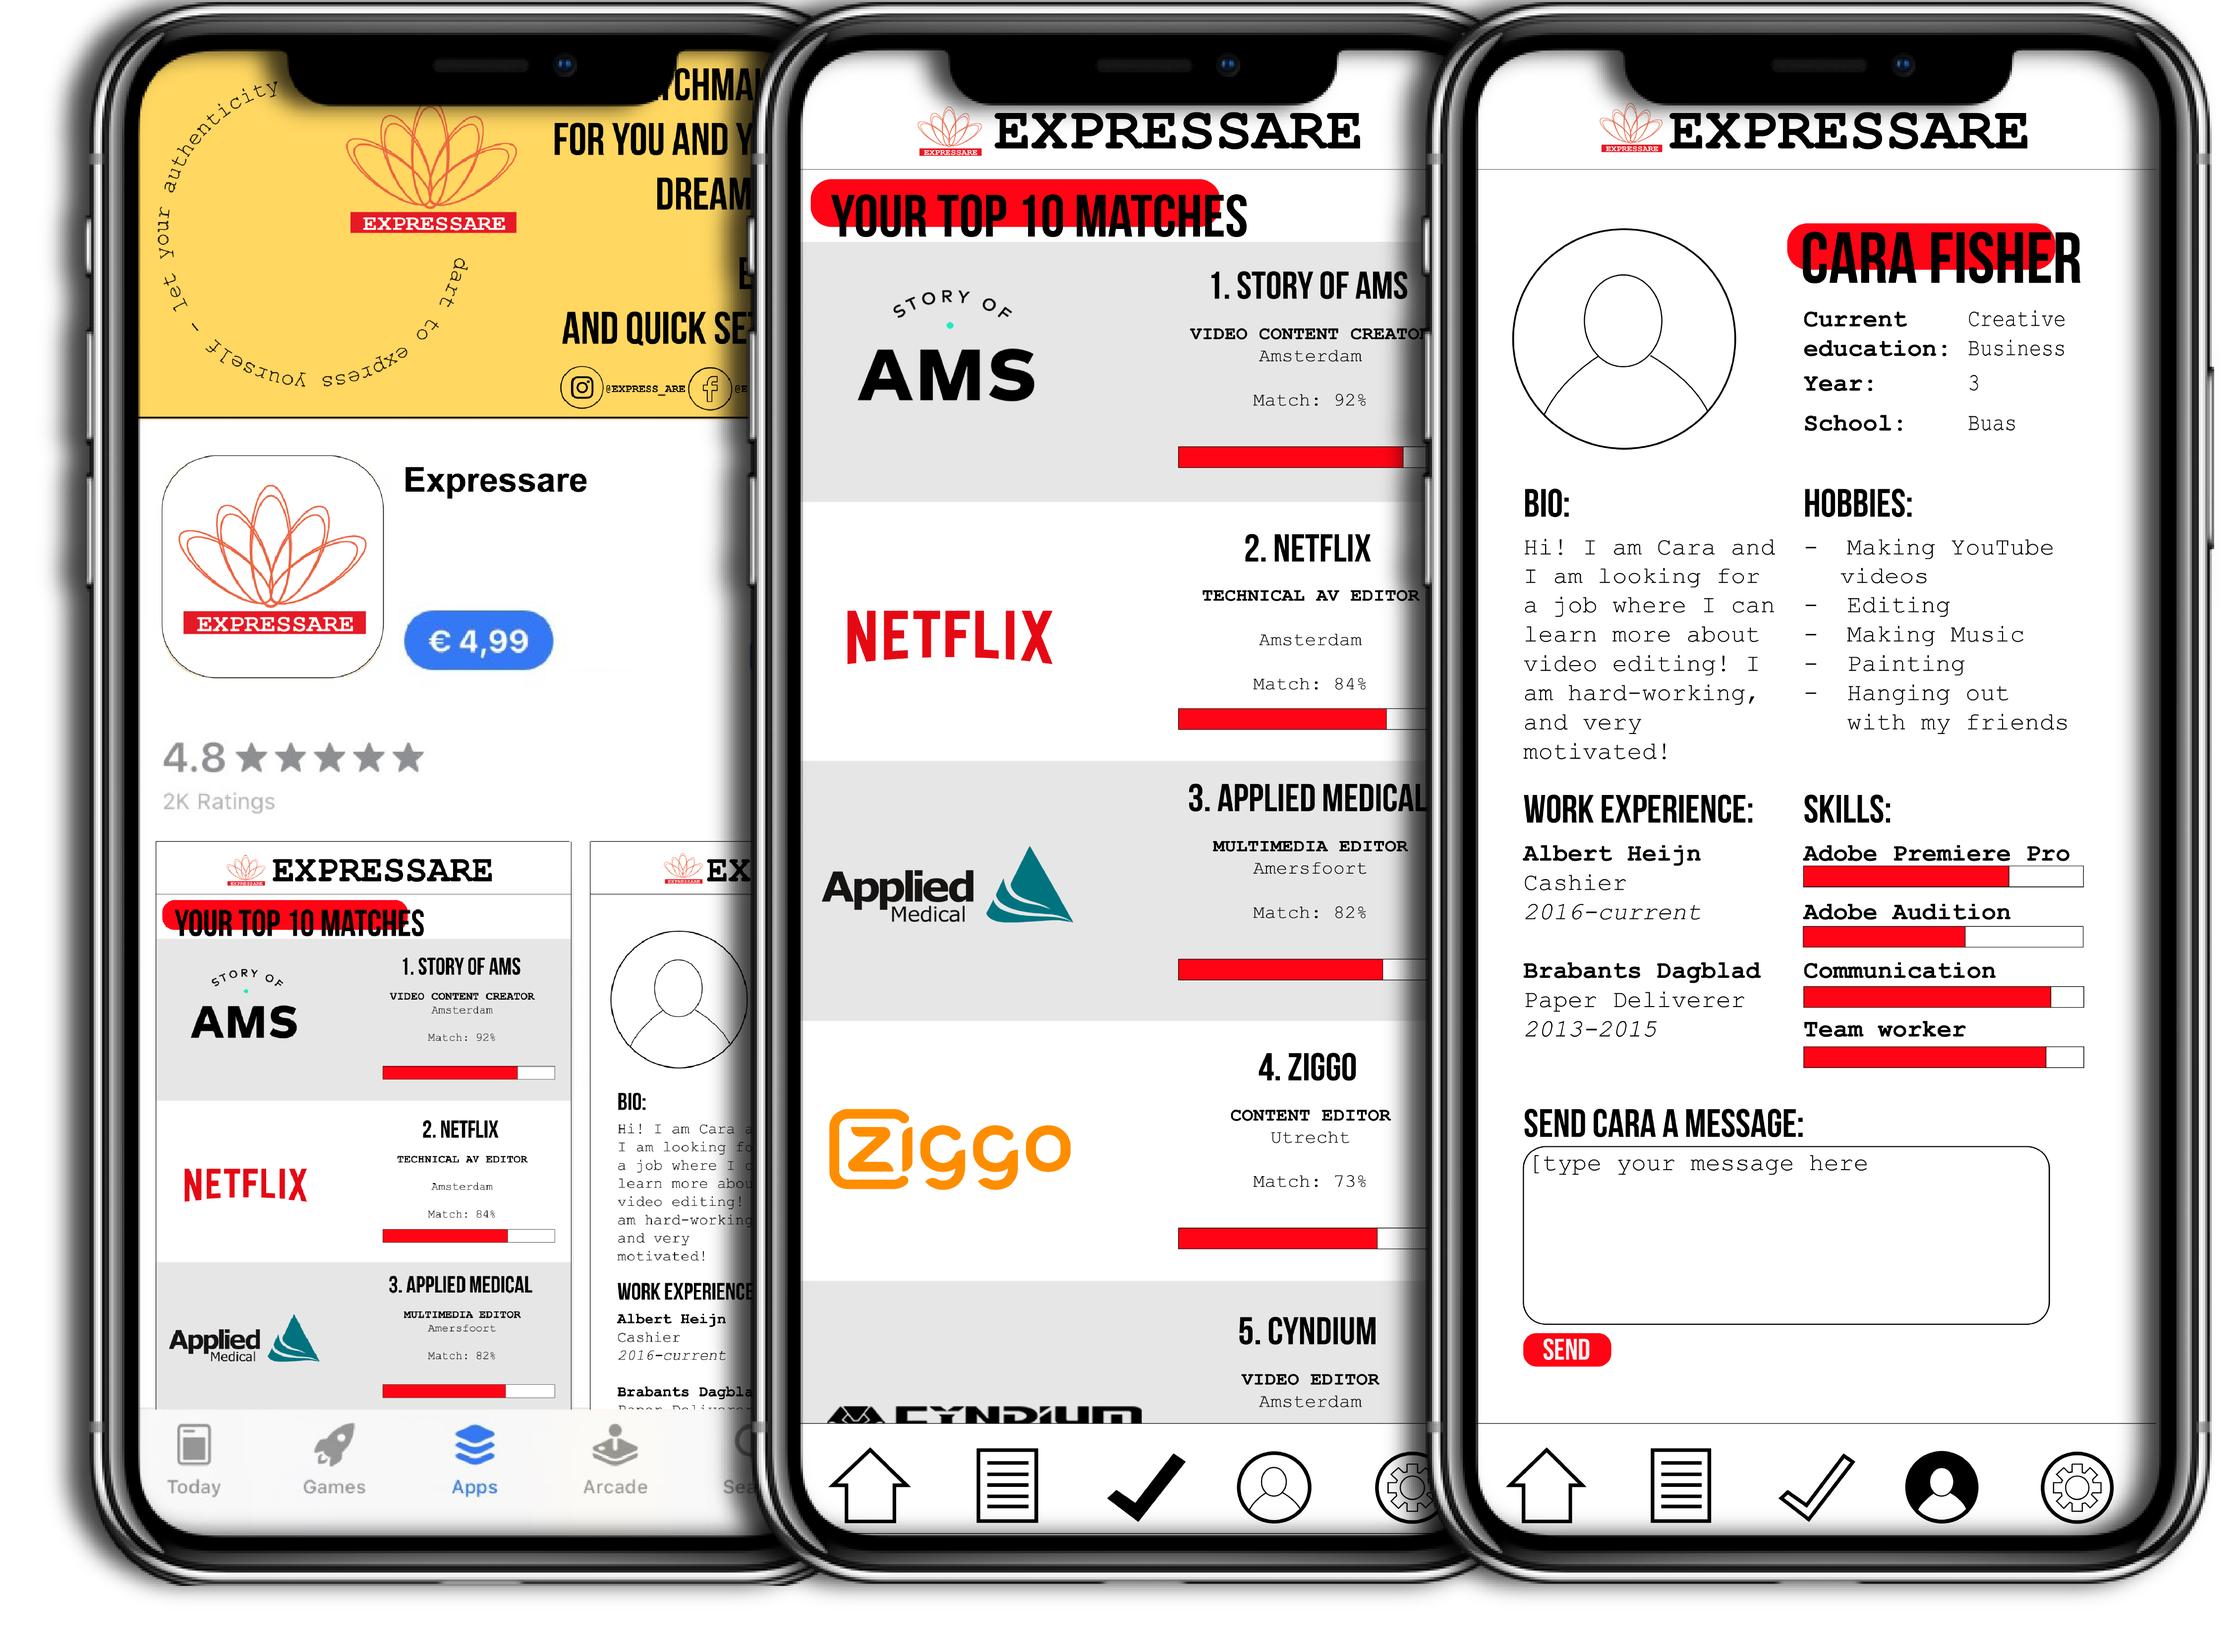
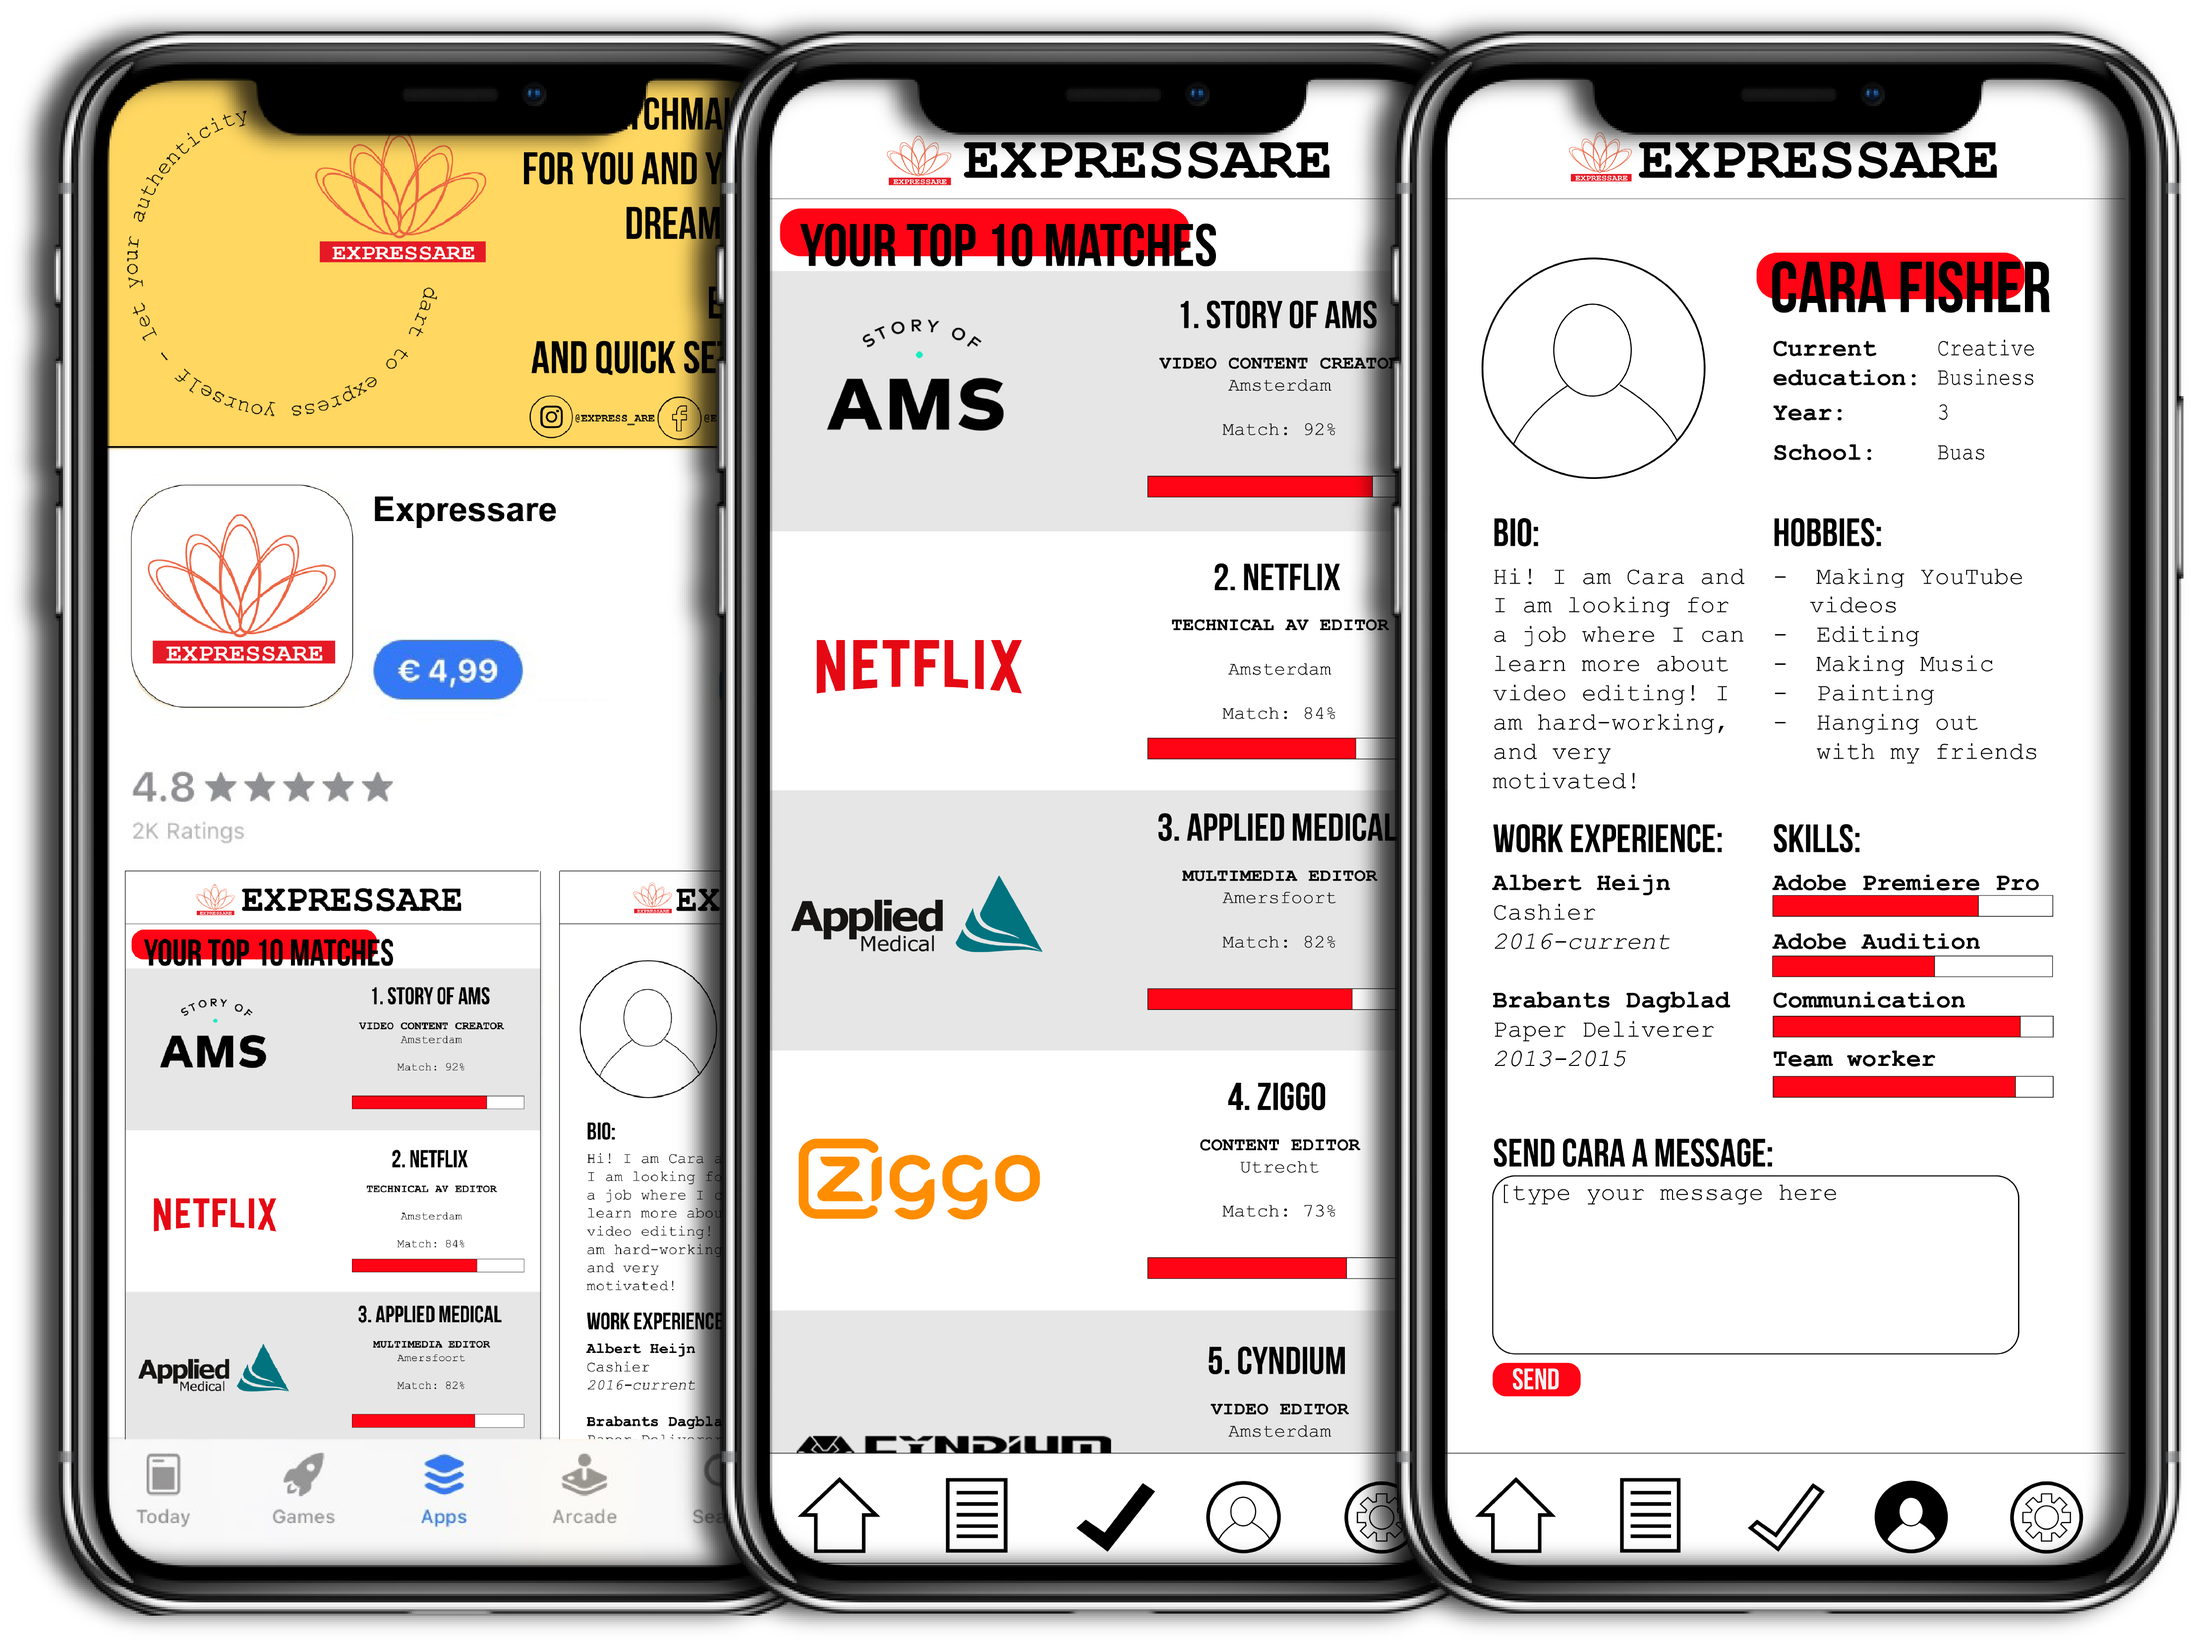
image fluid

diff --git a/the-app.html b/the-app.html
@@ -85,7 +85,7 @@
 <a href="https://play.google.com/store?hl=nl"><img class="download-button" src="images/Download-on-the-play-Store-button.png" width="175" alt="download on the playstore"/></a>
     </div>
     <div class="col-12 col-md-6">
-	 	<img class="screenshot" src="images/overlap-01-01.png" align="center" height="300" alt="Expressare In Appstore"/>
+	 	<img class="img-fluid screenshot" src="images/overlap-01-01-01.png" align="center" height="300" alt="Expressare In Appstore"/>
 	</div>
   </div>
 </div>
